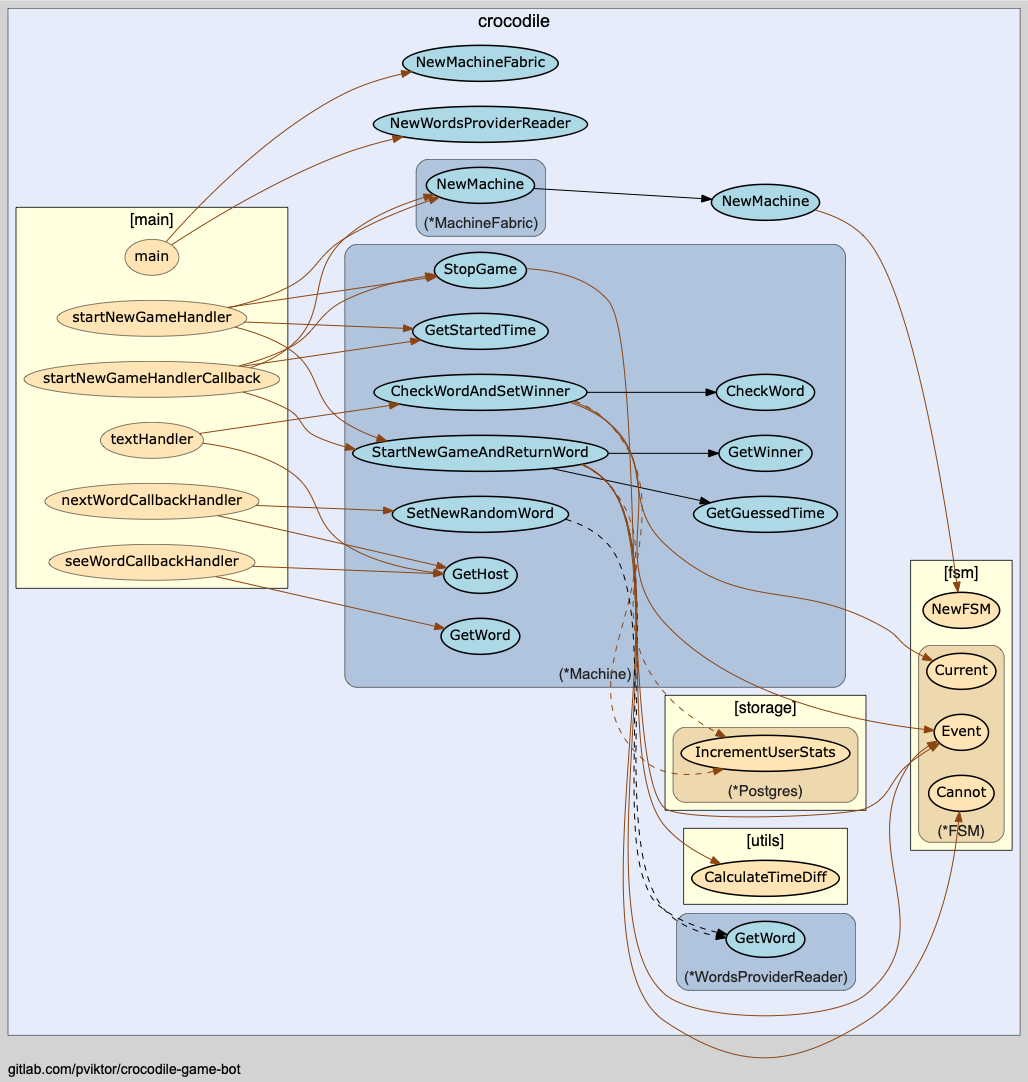
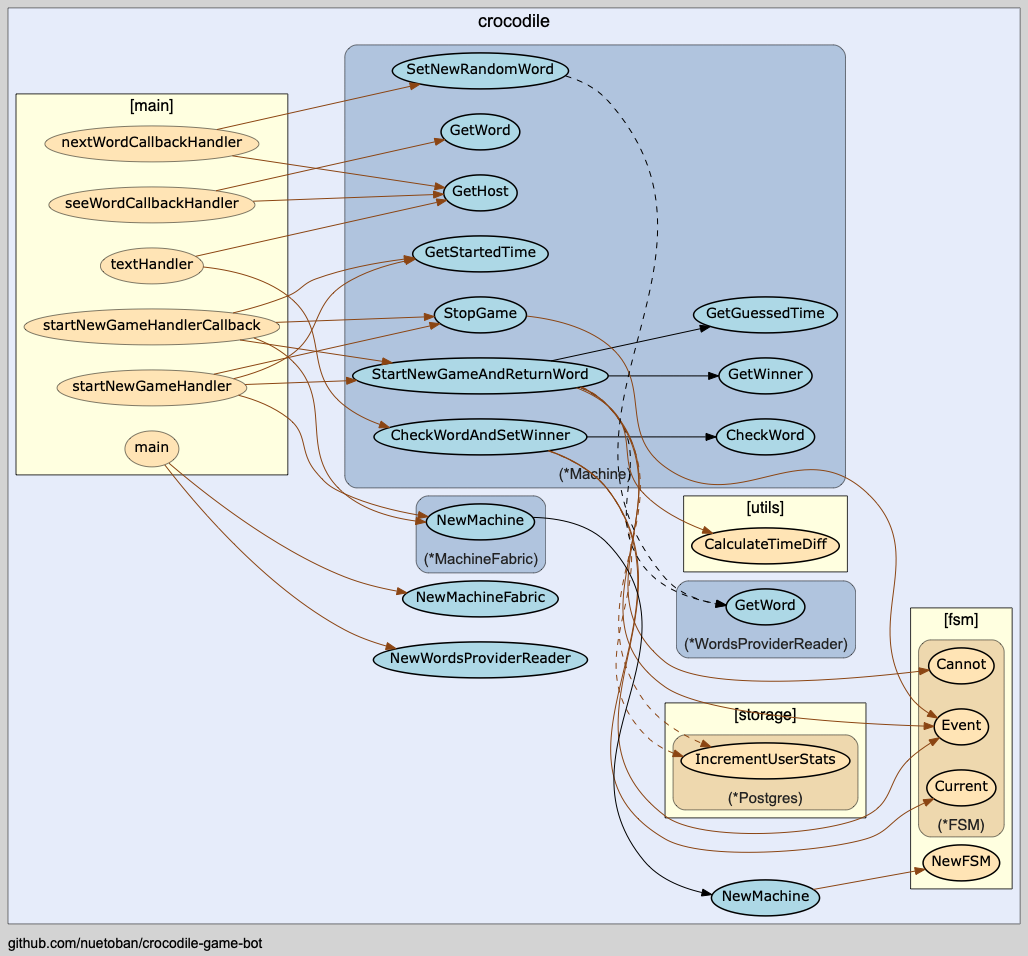
Change git repo path

diff --git a/bot.go b/bot.go
@@ -28,10 +28,10 @@ import (
 
 	tb "gopkg.in/tucnak/telebot.v2"
 
-	"gitlab.com/pviktor/crocodile-game-bot/crocodile"
-	"gitlab.com/pviktor/crocodile-game-bot/model"
-	"gitlab.com/pviktor/crocodile-game-bot/storage"
-	"gitlab.com/pviktor/crocodile-game-bot/utils"
+	"github.com/nuetoban/crocodile-game-bot/crocodile"
+	"github.com/nuetoban/crocodile-game-bot/model"
+	"github.com/nuetoban/crocodile-game-bot/storage"
+	"github.com/nuetoban/crocodile-game-bot/utils"
 )
 
 var machines map[int64]*crocodile.Machine

diff --git a/crocodile/crocodile.go b/crocodile/crocodile.go
@@ -26,8 +26,8 @@ import (
 
 	"github.com/looplab/fsm"
 
-	"gitlab.com/pviktor/crocodile-game-bot/model"
-	"gitlab.com/pviktor/crocodile-game-bot/utils"
+	"github.com/nuetoban/crocodile-game-bot/model"
+	"github.com/nuetoban/crocodile-game-bot/utils"
 )
 
 const (

diff --git a/storage/storage_test.go b/storage/storage_test.go
@@ -25,7 +25,7 @@ import (
 	"github.com/jinzhu/gorm"
 	_ "github.com/jinzhu/gorm/dialects/sqlite"
 
-	"gitlab.com/pviktor/crocodile-game-bot/model"
+	"github.com/nuetoban/crocodile-game-bot/model"
 )
 
 var p *Postgres

diff --git a/storage/storage.go b/storage/storage.go
@@ -25,7 +25,7 @@ import (
 	_ "github.com/jinzhu/gorm/dialects/postgres"
 
 	"fmt"
-	"gitlab.com/pviktor/crocodile-game-bot/model"
+	"github.com/nuetoban/crocodile-game-bot/model"
 )
 
 type Postgres struct {
